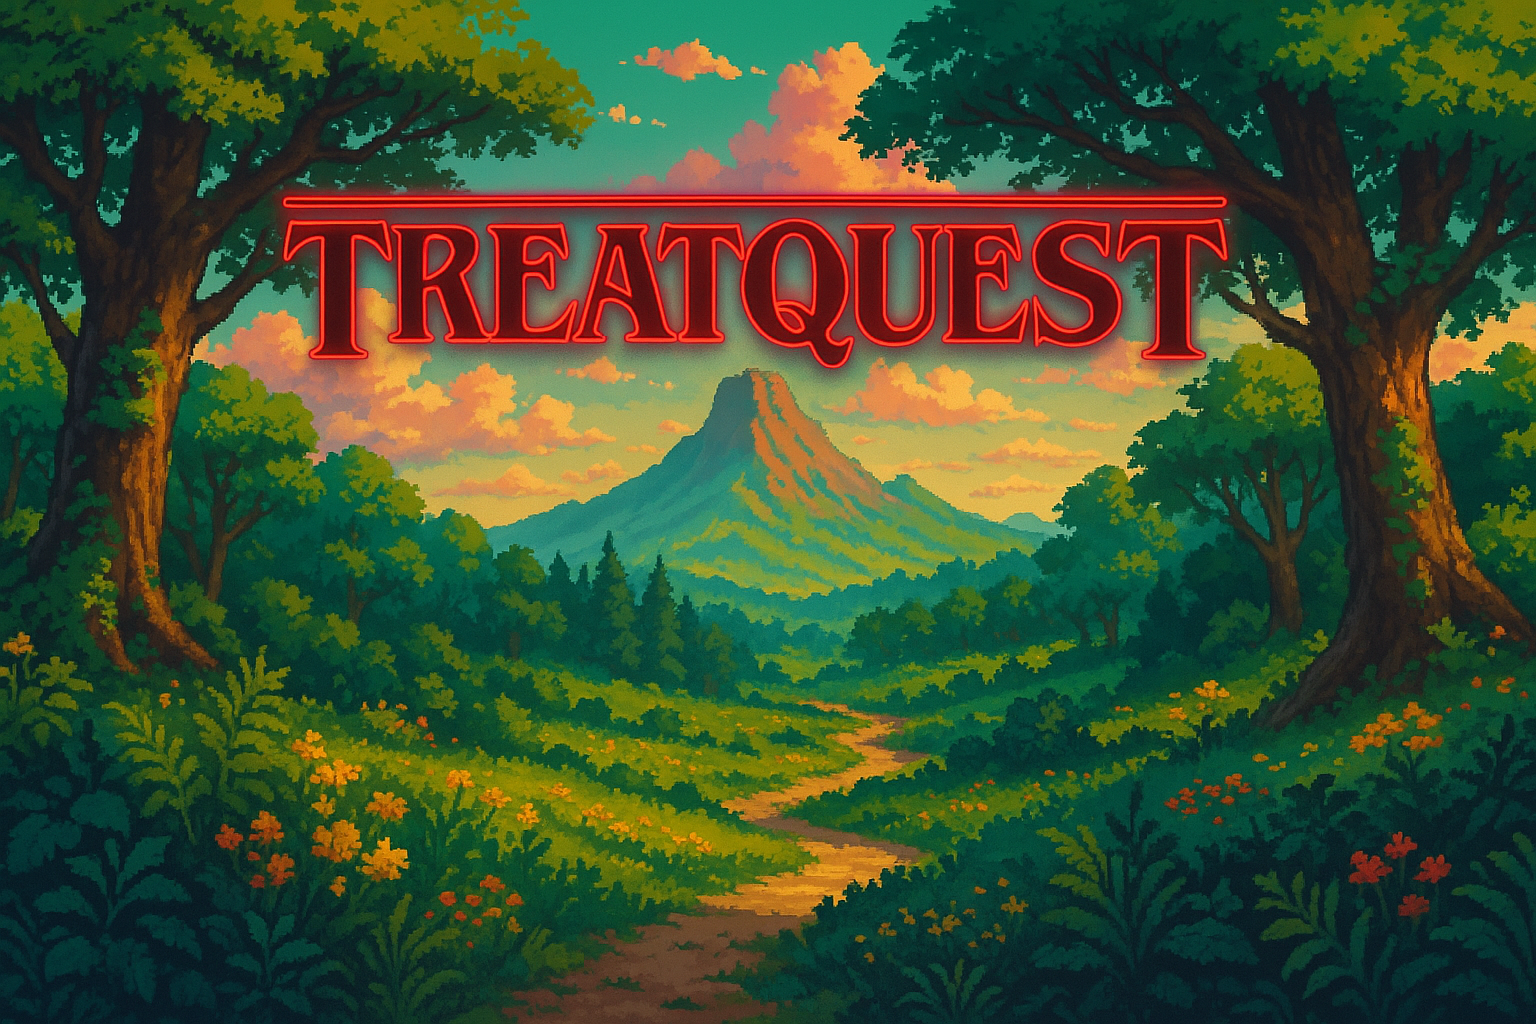
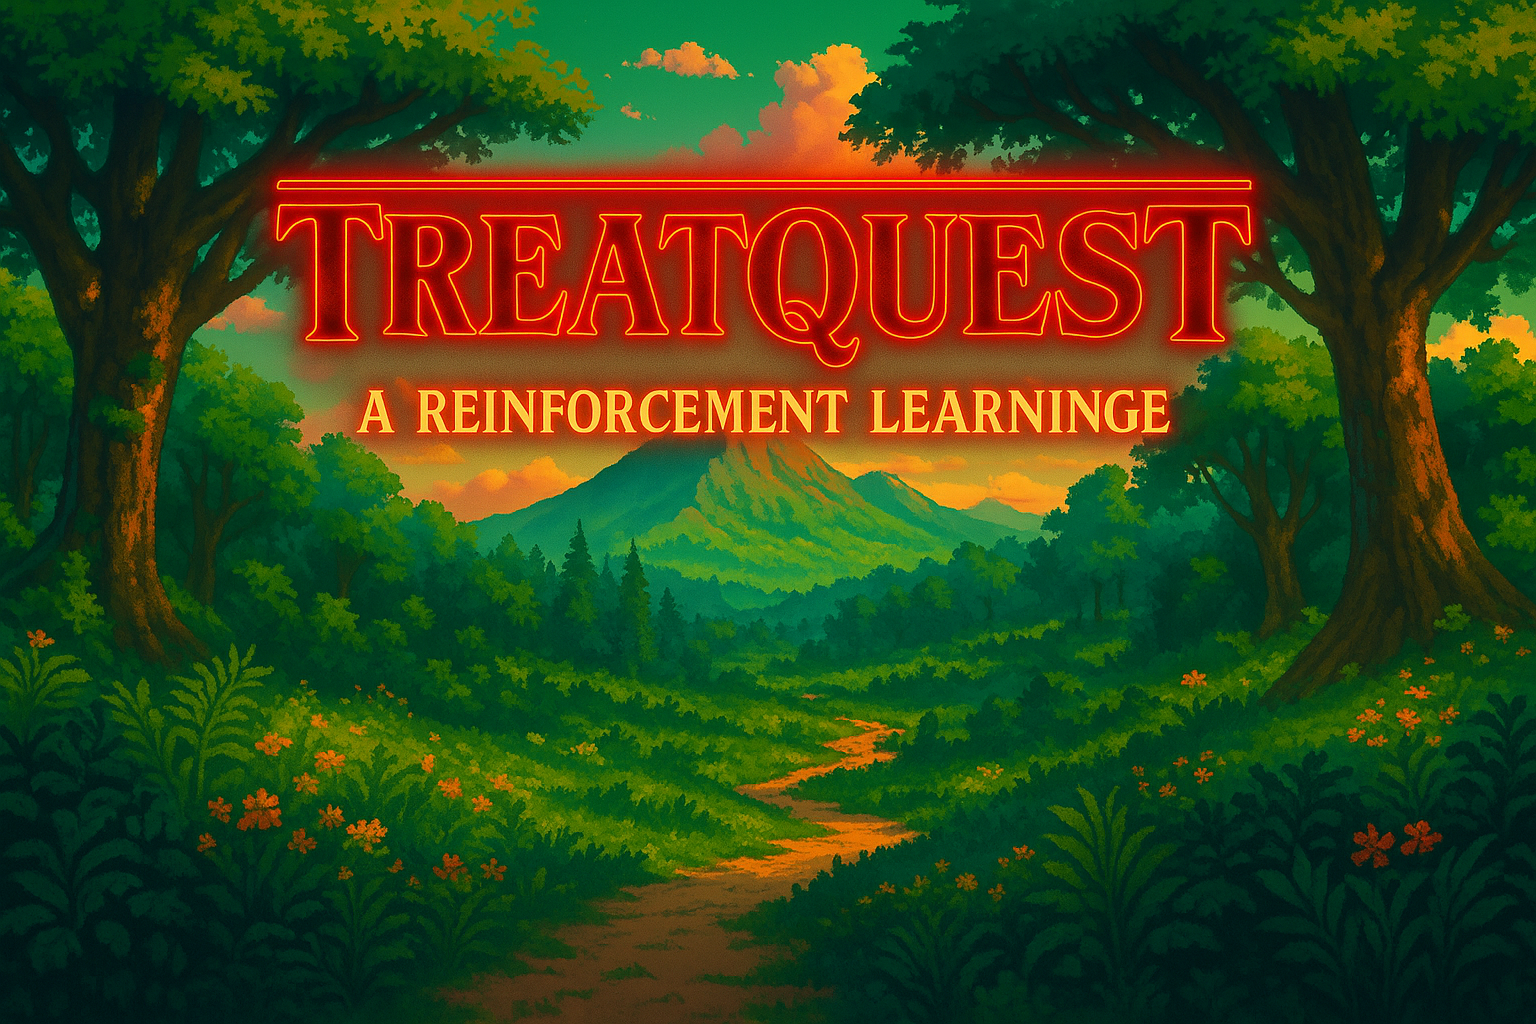
update

diff --git a/q_action.py b/q_action.py
@@ -382,7 +382,7 @@ def show_menu():
 
     # ---------- LOAD BACKGROUND ----------
     try:
-        bg = pygame.image.load("menu_bg.png").convert()
+        bg = pygame.image.load("menu_bg2.png").convert()
         bg = pygame.transform.scale(bg, (WIDTH, HEIGHT))
     except Exception:
         # Fallback if background missing
@@ -419,8 +419,8 @@ def show_menu():
         ("Train by Completion", "1"),
         ("Train by Episode", "2"),
         ("Run Visual Mode", "3"),
-        ("Quit", "4"),
-        ("Play Manual Mode", "5"),
+        ("Manual Mode", "4"),
+        ("Quit", "5"),
     ]
 
     buttons = []
@@ -447,7 +447,7 @@ def show_menu():
         for event in pygame.event.get():
             if event.type == pygame.QUIT:
                 pygame.quit()
-                return "4"  # Treat closing as Quit
+                return "5"  # Treat closing as Quit
 
             if event.type == pygame.MOUSEBUTTONDOWN and event.button == 1:
                 for rect, label, value in buttons:
@@ -464,7 +464,7 @@ def show_menu():
             if event.type == pygame.KEYDOWN:
                 if event.key == pygame.K_ESCAPE:
                     pygame.quit()
-                    return "4"
+                    return "5"
 
         # ---- DRAW ----
         # Background
@@ -539,7 +539,7 @@ def main():
             level=args.level,
             delay=args.delay
         )
-    elif choice == "5":
+    elif choice == "4":
         run_manual_play()
 
     else:
